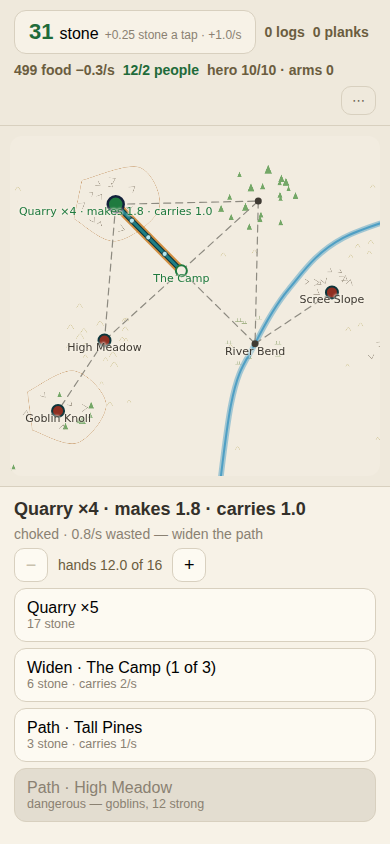
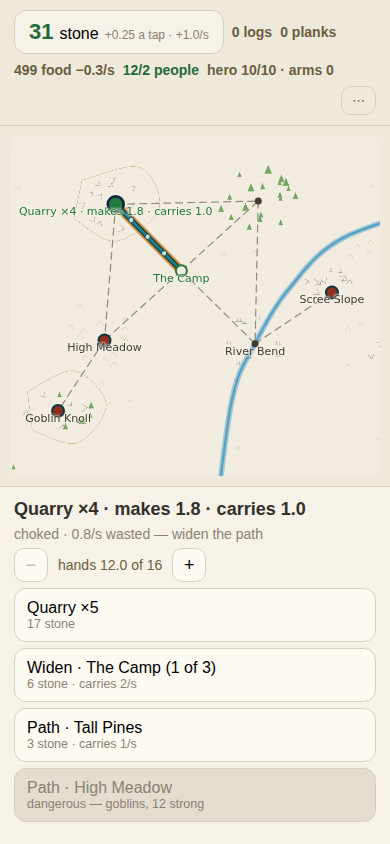
HOTFIX: the chop lives ON the pines — the lumberworks soft-lock is dead
The owner: 'lumberworks is soft locked at the moment because there's no
way to get the lumber needed.' There was a way - selecting the pines
quietly changed what the HEADER button paid - and nobody could ever
have found it. That is a soft-lock in practice, and it shipped because
the bootstrap was tested in the engine but never WALKED on screen.

- 'Chop logs by hand - +0.25 logs a tap' is a deed ON the pines' own
  panel now, where a person looks. The header button pays stone, only
  stone, always.
- The probe now walks the ENTIRE bootstrap on screen: path to the
  pines, 33 chops read back off the header, 'Lumberworks x1' standing.
  Sabotaged the deed away - the probe answers 'the pines offer no
  hand-chop - the lumberworks is soft-locked again'. Restored.
- vitest 723 green (engine untouched - the tap kind always worked;
  the UI was the lock).

Claude-Session: https://claude.ai/code/session_01QmyFfz98V4SRquKDwCYRQg

Changed region(s): [[0.3692, 0.0308, 0.9538, 0.0616]]

diff --git a/src/ui/Camp.svelte b/src/ui/Camp.svelte
@@ -24,11 +24,7 @@
   const act = (a: Parameters<typeof apply>[1]): void => { game = apply(game, a); };
 
   const f = $derived(flow(game));
-  /** ★ The thumb works what you are looking at: pines chop logs by hand,
-   *  everything else chips stone — the bootstrap for the logs-priced camp. */
-  const tapKind = $derived<'stone' | 'logs'>(
-    picked !== null && !game.goblins[picked]
-      && SITE.get(picked)?.allows === 'lumber' ? 'logs' : 'stone');
+
   const cap = $derived(popCap(game));
   /** Planks the mills can actually deliver right now: capacity, starved to
    *  the log supply when the pile is dry. The header never overpromises. */
@@ -138,6 +134,18 @@
         go: () => act({ type: 'assail', id: s.id }),
       });
       return out;
+    }
+    // ★ HAND WORK AT THE TREES — the owner: *"lumberworks is soft locked…
+    // there's no way to get the lumber needed."* There was, and nobody
+    // could find it (the header button quietly changed meaning). Now the
+    // chop is a deed ON the pines, where a person would look for it.
+    if (s.allows === 'lumber') {
+      out.push({
+        label: 'Chop logs by hand',
+        note: `+${TAP_STONE} logs a tap`,
+        why: null,
+        go: () => act({ type: 'tap', kind: 'logs' }),
+      });
     }
     const have = game.stacks[s.id] ?? 0;
     const why = unraisable(game, s.id);
@@ -284,9 +292,9 @@
 
 <main>
   <header>
-    <button class="spring" onclick={() => act({ type: 'tap', kind: tapKind })}>
+    <button class="spring" onclick={() => act({ type: 'tap' })}>
       <b>{Math.floor(game.stone)}</b><span>stone</span>
-      <em>+{TAP_STONE} {tapKind} a tap{f.stone > 0 ? ` · +${f.stone.toFixed(1)}/s` : ''}</em>
+      <em>+{TAP_STONE} a tap{f.stone > 0 ? ` · +${f.stone.toFixed(1)}/s` : ''}</em>
     </button>
     <span class="keep">{Math.floor(game.logs)} logs</span>
     <span class="keep">{Math.floor(game.planks)} planks{planksNow > 0 ? ` +${planksNow.toFixed(1)}/s` : ''}</span>
